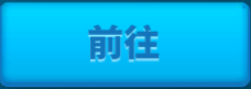
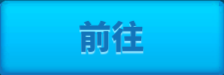
feat(cave): select cave by goto-button position by idle scout count
- 全屏识别所有前往按钮，按可用斥候数选洞：3→最上面、2→第二上面、1→最下面
- 无前往按钮时关闭界面并返回 no_cave
- 移除旧的 OCR 坐标去重相关死代码

Changed region(s): [[0.0, 0.0, 1.0, 1.0], [0.3438, 0.2667, 0.6562, 0.7467], [0.375, 0.2933, 0.4062, 0.3467]]

diff --git a/plugins/rok/actions/caveExplore.ts b/plugins/rok/actions/caveExplore.ts
@@ -2,9 +2,7 @@ import { PluginContext } from '../../../core/plugin';
 import { RokConfig } from '../index';
 import { resetCityView, swipeBuildingToCenter } from '../utils/location';
 import { getTemplatesDir } from '../../../core/resourcePath';
-import { ocrService } from '../../../core/ocr/OcrService';
 import * as path from 'path';
-import * as fs from 'fs/promises';
 import sharp from 'sharp';
 
 const TEMPLATE_DIR = getTemplatesDir();
@@ -22,20 +20,10 @@ const CLOSE_SCOUT = { x: 1365, y: 109 };
 // 山洞页签
 const CAVE_TAB = { x: 940, y: 267 };
 
-// OCR 区域：3 个山洞坐标显示位置
-const CAVE_OCR_REGIONS = [
-  { id: 1, x: 286, y: 457, width: 144, height: 33, cx: 358, cy: 473 },
-  { id: 2, x: 286, y: 612, width: 144, height: 44, cx: 358, cy: 634 },
-];
-
 // 调查按钮
 const INVESTIGATE_BTN = { x: 1141, y: 596 };
 
-export type CaveExploreResult = 'success' | 'no_scout_button' | 'no_idle_scout';
-
-// 持久化的已探索山洞集合（整个进程共享）
-const globalExploredSet = new Set<string>();
-let globalInitialized = false;
+export type CaveExploreResult = 'success' | 'no_scout_button' | 'no_idle_scout' | 'no_cave';
 
 export async function caveExplore(
   ctx: PluginContext,
@@ -50,15 +38,12 @@ export async function caveExplore(
 
   ctx.log(`=== 开始山洞探索 ===`);
 
-  globalInitialized = true;
-  const exploredSet = globalExploredSet;
-  ctx.log(`  当前已记录山洞数: ${exploredSet.size} 个`);
-
   const popScoutTemplate = path.join(TEMPLATE_DIR, 'pop_zhenChaBtn.png');
   const chihouIdleTemplate = path.join(TEMPLATE_DIR, 'chihou_idle.png');
   const chihouBackTemplate = path.join(TEMPLATE_DIR, 'chihou_back.png');
   const chihouZhuzhaTemplate = path.join(TEMPLATE_DIR, 'chihou_zhuzha.png');
   const btnExploreTemplate = path.join(TEMPLATE_DIR, 'btn_explore.png');
+  const btnGoToCaveTemplate = path.join(TEMPLATE_DIR, 'btn_gotocave.png');
 
   // 预加载模板尺寸
   const idleMeta = await sharp(chihouIdleTemplate).metadata();
@@ -145,66 +130,34 @@ export async function caveExplore(
     await ctx.sleep(1);
 
     // ============================================
-    // 第 7 步: OCR 识别山洞坐标
+    // 第 7 步: 全屏识别所有"前往"按钮，按可用斥候数选择
+    // 可用斥候=3 → 最上面的按钮；=2 → 第二上面；=1 → 最下面
+    // （前往按钮按 y 升序排列，最上面在前）
     // ============================================
-    ctx.log('[7/10] 识别山洞坐标...');
-    let tappedCave = false;
-    let anyOcrMatch = false;
-    let currentCaveCoord: string | null = null; // 暂存当前山洞坐标，派遣成功后记录
+    ctx.log('[7/10] 全屏识别前往按钮...');
 
-    for (const region of CAVE_OCR_REGIONS) {
-      const regionPath = await ctx.captureRegion(region.x, region.y, region.width, region.height);
+    // 按 y 升序排列（最上面在前）
+    const gotoMatches = (await ctx.findAllImages(btnGoToCaveTemplate, 0.7))
+      .sort((a, b) => a.y - b.y);
+    ctx.log(`  识别到 ${gotoMatches.length} 个前往按钮，可用斥候 ${idleTotal} 个`);
 
-      try {
-        const rawText = await ocrService.readCaveCoordinates(regionPath);
-        ctx.log(`  区域${region.id} OCR: "${rawText}"`);
-
-        // 直接提取纯数字串（去除所有非数字字符）作为去重 key
-        const coordKey = rawText.replace(/\D/g, '');
-        if (coordKey) {
-          anyOcrMatch = true;
-          if (exploredSet.has(coordKey)) {
-            ctx.log(`  山洞 ${coordKey} 已探索，跳过`);
-          } else {
-            exploredSet.add(coordKey);
-            currentCaveCoord = coordKey;
-            ctx.log(`  新山洞 ${coordKey}，点击区域${region.id}中心 (${region.cx}, ${region.cy})`);
-            await ctx.tap(region.cx, region.cy);
-            tappedCave = true;
-            await fs.unlink(regionPath).catch(() => {});
-            break;
-          }
-        } else {
-          ctx.log(`  区域${region.id} 未识别到坐标格式`);
-        }
-      } catch (e: any) {
-        ctx.log(`  区域${region.id} OCR 异常: ${e.message}`);
-      }
-
-      await fs.unlink(regionPath).catch(() => {});
+    if (gotoMatches.length === 0) {
+      ctx.log('  ⚠ 未识别到前往按钮，无可探索山洞，关闭界面');
+      await ctx.tap(CLOSE_SCOUT.x, CLOSE_SCOUT.y);
+      await ctx.sleep(1);
+      ctx.log(`=== 山洞探索完成 (无可探索山洞) ===`);
+      return 'no_cave';
     }
 
-    if (!tappedCave) {
-      // 前两个山洞都已探索，前往固定位置的第三个山洞
-      if (anyOcrMatch) {
-        ctx.log(`  前2个山洞已探索，前往第三个山洞 (1235, 743)`);
-        currentCaveCoord = 'FIXED_1235_743';
-        await ctx.tap(1235, 743);
-        tappedCave = true;
-      } else {
-        ctx.log('  所有山洞已探索或 OCR 识别失败');
-        if (idleTotal > 1) {
-          // 还有剩余闲置斥候，继续下一轮
-          ctx.log(`  剩余 ${idleTotal - 1} 个闲置斥候，继续...`);
-          continue;
-        }
-        ctx.log('  无更多闲置斥候');
-        await ctx.tap(CLOSE_SCOUT.x, CLOSE_SCOUT.y);
-        await ctx.sleep(1);
-        ctx.log(`=== 山洞探索完成 ===`);
-        return 'success';
-      }
-    }
+    // 按 y 升序（最上面在前）：
+    // 3 个斥候 → 最上面(index 0)；2 个 → 第二上面(index 1)；1 个 → 最下面(index length-1)
+    let pickIndex: number;
+    if (idleTotal >= 3) pickIndex = 0;
+    else if (idleTotal === 2) pickIndex = 1;
+    else pickIndex = gotoMatches.length - 1;
+    const target = gotoMatches[pickIndex] ?? gotoMatches[gotoMatches.length - 1];
+    ctx.log(`  选择第 ${pickIndex + 1} 个前往按钮 (${target.x}, ${target.y})，可用斥候 ${idleTotal}`);
+    await ctx.tap(target.x, target.y);
     await ctx.sleep(2.5);
 
     // ============================================
@@ -231,11 +184,6 @@ export async function caveExplore(
     await ctx.tap(exploreBtn.x, exploreBtn.y);
     await ctx.sleep(1);
 
-    // 派遣成功，记录山洞坐标到内存（去重用）
-    if (currentCaveCoord) {
-      ctx.log(`  已记录山洞: ${currentCaveCoord}`);
-    }
-
     // ============================================
     // 第 10 步: 判断是否继续
     // ============================================
@@ -251,10 +199,9 @@ export async function caveExplore(
 }
 
 /**
- * 重置山洞探索状态（清空已记录的山洞）
- * 用户点击「结束」后再点击「开始」时调用
+ * 重置山洞探索状态。
+ * 改为按"前往"按钮位置选洞后无内部状态，保留空实现以兼容前端 action 调用。
  */
 export function resetCaveExploreState(): void {
-  globalExploredSet.clear();
-  globalInitialized = false;
+  // no-op
 }

diff --git a/server-auth/help/index.html b/server-auth/help/index.html
@@ -461,11 +461,23 @@
                   小号负责搜索宝石矿并记录坐标，大号读取坐标后直接搜索并采集。大号勾选「采集分享矿」，小号勾选「分享宝石矿」，两个账号均需填入大号城堡坐标。<br>
                   核心目的不在增效，而是通过双号配合分散采集行为，降低被检测风险。</li>
             </ol>
-            <p style="margin-top:16px;"><strong>🎬 账号调度演示 - 以寨子为例</strong></p>
-            <div style="position:relative;padding-bottom:56.25%;height:0;border-radius:12px;overflow:hidden;background:#000;margin-top:8px;">
-              <iframe src="https://player.bilibili.com/player.html?bvid=BV1Fu3w6NEr9&page=1&high_quality=1&danmaku=0"
-                      allowfullscreen scrolling="no" frameborder="0"
-                      style="position:absolute;top:0;left:0;width:100%;height:100%;border:none;"></iframe>
+            <div style="display:grid;grid-template-columns:1fr 1fr;gap:16px;margin-top:16px;">
+              <div>
+                <p style="text-align:center;margin-bottom:8px;"><strong>🎬 账号调度演示 - 以寨子为例</strong></p>
+                <div style="position:relative;padding-bottom:56.25%;height:0;border-radius:12px;overflow:hidden;background:#000;">
+                  <iframe src="https://player.bilibili.com/player.html?bvid=BV1Fu3w6NEr9&page=1&high_quality=1&danmaku=0"
+                          allowfullscreen scrolling="no" frameborder="0"
+                          style="position:absolute;top:0;left:0;width:100%;height:100%;border:none;"></iframe>
+                </div>
+              </div>
+              <div>
+                <p style="text-align:center;margin-bottom:8px;"><strong>🎬 组合采集效果演示</strong></p>
+                <div style="position:relative;padding-bottom:56.25%;height:0;border-radius:12px;overflow:hidden;background:#000;">
+                  <iframe src="https://player.bilibili.com/player.html?bvid=BV1Ks3D6EEPZ&page=1&high_quality=1&danmaku=0"
+                          allowfullscreen scrolling="no" frameborder="0"
+                          style="position:absolute;top:0;left:0;width:100%;height:100%;border:none;"></iframe>
+                </div>
+              </div>
             </div>`
       },
       {
